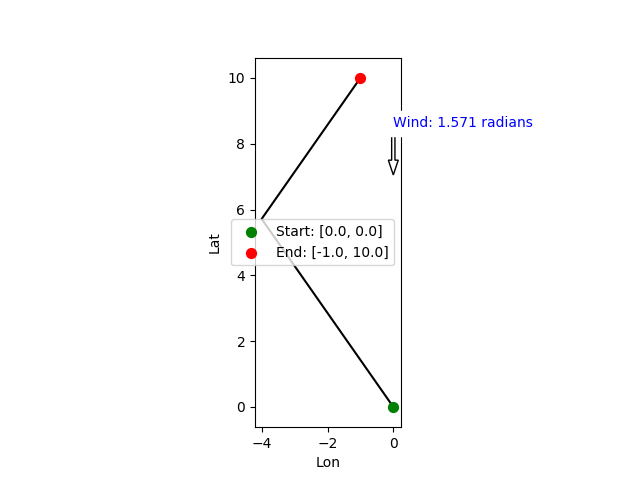
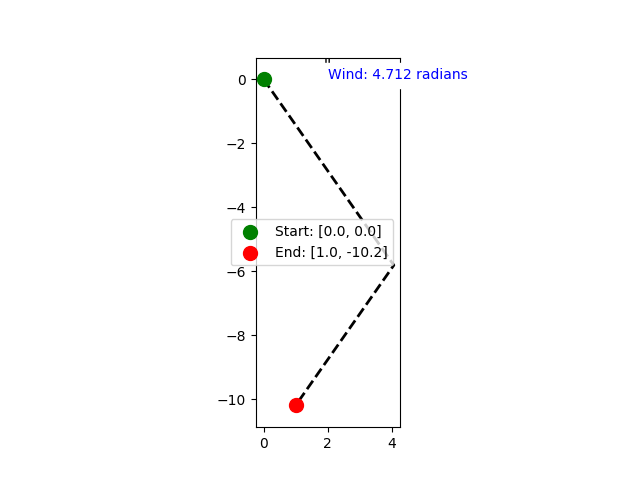
adding docs

diff --git a/lib/calc_route.dart b/lib/calc_route.dart
@@ -8,19 +8,18 @@ import 'package:sail_routing_dart/route_writer.dart';
 bool v_flag = false;
 
 void main(List<String> args) {
-
   var parser = new ArgParser();
   parser.addFlag("verbose", abbr: 'v', defaultsTo: false);
   var results = parser.parse(args);
   v_flag = results['verbose'];
 
   Cart_Point start = new Cart_Point(0.0, 0.0);
-  Cart_Point end = new Cart_Point(-1, 10.0);
-  double wind = pi / 2;
+  Cart_Point end = new Cart_Point(1.0, -10.2);
+  double wind = 3 * pi / 2;
   RouteModel route = new RouteModel(start: start, end: end, wind_radians: wind);
 
   calculateOptimal(route);
-  verbose_print(route);
+  print(route);
 
   RouteWriter rw = new RouteWriter();
   rw.writeToFileFromRouteModel(route: route);
@@ -37,17 +36,16 @@ void verbose_print(dynamic s) {
   }
 }
 
-Cart_Point find_intersection(
-    Cart_Point a_point, Cart_Point b_point, Cart_Point c_point, Cart_Point d_point) {
-    double a1 = b_point.y - a_point.y; 
-    double b1 = a_point.x - b_point.x; 
-    double c1 = a1*(a_point.x) + b1*(a_point.y); 
+Cart_Point find_intersection(Cart_Point a_point, Cart_Point b_point, Cart_Point c_point, Cart_Point d_point) {
+  double a1 = b_point.y - a_point.y;
+  double b1 = a_point.x - b_point.x;
+  double c1 = a1 * (a_point.x) + b1 * (a_point.y);
 
-    // Line CD represented as a2x + b2y = c2 
-    double a2 = d_point.y - c_point.y; 
-    double b2 = c_point.x - d_point.x; 
-    double c2 = a2*(c_point.x)+ b2*(c_point.y);
-    double determinant = a1*b2 - a2*b1; 
+  // Line CD represented as a2x + b2y = c2
+  double a2 = d_point.y - c_point.y;
+  double b2 = c_point.x - d_point.x;
+  double c2 = a2 * (c_point.x) + b2 * (c_point.y);
+  double determinant = a1 * b2 - a2 * b1;
 
   if (determinant == 0) {
     print("find_intersection() found parallel");
@@ -66,8 +64,8 @@ bool check_viable_tack(Cart_Point p1, Cart_Point p2, double wind_radians) {
   /*
     check_viable_tack just checks if a tack from p1 -> p2 is makable (not directly upwind).
     Args:
-        p1 (tuple): Cartesian coordinates of start
-        p2 (tuple): Cartesian coordinates of end
+        p1 (Cart_Point): Cartesian coordinates of start
+        p2 (Cart_Point): Cartesian coordinates of end
         wind_radians (double): wind direction 
     Returns:
         bool
@@ -76,17 +74,13 @@ bool check_viable_tack(Cart_Point p1, Cart_Point p2, double wind_radians) {
 
   double ngzone_upper_bound = (wind_radians + no_go_limit_radians);
   double ngzone_lower_bound = (wind_radians - no_go_limit_radians);
-  verbose_print("wind lower-upper: " +
-      radToDegStr(ngzone_lower_bound) +
-      " <-> " +
-      radToDegStr(ngzone_upper_bound));
+  verbose_print("wind lower-upper: " + radToDegStr(ngzone_lower_bound) + " <-> " + radToDegStr(ngzone_upper_bound));
   Point delta = p2.toPoint() - p1.toPoint();
-
   double tack_angle = atan2(delta.y, delta.x);
   verbose_print("pot viable tack: " + radToDegStr(tack_angle));
-
+  // arctan gives values fro [-pi, pi]
   if (tack_angle < 0) {
-    tack_angle += pi;
+    tack_angle += 2 * pi;
   }
 
   verbose_print("(tack_angle > ngzone_lower_bound) => " + (tack_angle > ngzone_lower_bound).toString());
@@ -110,36 +104,27 @@ double bestTackAngle(Cart_Point start, Cart_Point goal, double wind_radians, boo
 
   verbose_print("possible tacks: " + radToDegStr(angle_from_ideal_lower) + " <-> " + radToDegStr(angle_from_ideal_upper));
   bool lower_better = (angle_from_ideal_lower < angle_from_ideal_upper);
-  lower_better = (invert_flag)?  !lower_better: lower_better;
+  lower_better = (invert_flag) ? !lower_better : lower_better;
 
- 
   return (lower_better) ? ngzone_lower_bound : ngzone_upper_bound;
-
-  
-  
 }
 
 calculateOptimal(RouteModel route) {
   List intermediate_points = new List<Cart_Point>();
   bool viable = check_viable_tack(route.start, route.end, route.wind_radians);
   if (!viable) {
-    double best_tack_slope =
-        bestTackAngle(route.start, route.end, route.wind_radians, false);
+    double best_tack_slope = bestTackAngle(route.start, route.end, route.wind_radians, false);
 
     verbose_print("__BEST TACK " + radToDegStr(best_tack_slope));
     // TODO this can be done better, note th +pi
-    double inverse_tack_slope =
-        bestTackAngle(route.end, route.start, route.wind_radians, true) + pi;
+    double inverse_tack_slope = bestTackAngle(route.end, route.start, route.wind_radians, true) + pi;
     verbose_print("__INVERSE TACK " + radToDegStr(inverse_tack_slope));
 
-    Cart_Point start2 = Cart_Point.fromPoint(route.start.toPoint() +
-        Point(cos(best_tack_slope), sin(best_tack_slope)));
-    Cart_Point end2 = Cart_Point.fromPoint(route.end.toPoint() +
-        Point(cos(inverse_tack_slope), sin(inverse_tack_slope)));
+    Cart_Point start2 = Cart_Point.fromPoint(route.start.toPoint() + Point(cos(best_tack_slope), sin(best_tack_slope)));
+    Cart_Point end2 = Cart_Point.fromPoint(route.end.toPoint() + Point(cos(inverse_tack_slope), sin(inverse_tack_slope)));
 
     verbose_print(end2);
-    Cart_Point intersect =
-        find_intersection(route.start, start2, route.end, end2);
+    Cart_Point intersect = find_intersection(route.start, start2, route.end, end2);
 
     intermediate_points.add(start2);
     intermediate_points.add(intersect);
@@ -149,5 +134,4 @@ calculateOptimal(RouteModel route) {
   } else {
     route.intermediate_points = [];
   }
- 
 }

diff --git a/lib/pretty_plotter.py b/lib/pretty_plotter.py
@@ -44,18 +44,19 @@ ax.arrow(wind_origin[0], wind_origin[1], cos(wind_radians), sin(
 ax.annotate(wind_label, xy=wind_origin, color='b', backgroundcolor='w')
 
 # Draw line connecting all points
-plt.plot(x_row_major, y_row_major, color='k')
+plt.plot(x_row_major, y_row_major, color='k',
+         linestyle='dashed', linewidth=2, markersize=12)
 
 # Draw start and end points in green and red respsectively
-plt.scatter(final_map["start"][0], final_map["start"][1], s=50,
+plt.scatter(final_map["start"][0], final_map["start"][1], s=100,
             zorder=100, c='g', label="Start: " + str(final_map["start"]))
-plt.scatter(final_map["end"][0], final_map["end"][1], s=50,
+plt.scatter(final_map["end"][0], final_map["end"][1], s=100,
             zorder=100, c='r', label="End: " + str(final_map["end"]))
 
 # Draw legend
 plt.legend(loc='best')
-plt.xlabel('Lon')
-plt.ylabel('Lat')
+# plt.xlabel('Longitude: Seconds', fontsize=15)
+# plt.ylabel('Latitude: Seconds', fontsize=15)
 # make it a square
 ax.set_aspect('equal', 'box')
 # Save to a file, I hated having 20+ python windows open

diff --git a/README.md b/README.md
@@ -1,3 +1,31 @@
+## Running From Flutter ##
+First import the required files with:
+```dart
+import 'package:sail_routing_dart/route.dart';
+import 'package:sail_routing_dart/cart_point.dart';
+```
+This will give you the data types you need.\\
+#### Calculating Routes ####
+To calculate a route, first we need to create a route. The constructor should giv you hints but heres an example:
+```dart
+  Cart_Point start = new Cart_Point(0.0, 0.0);
+  Cart_Point end = new Cart_Point(1.0, -10.2);
+  double wind = 3 * pi / 2;
+  RouteModel route = new RouteModel(start: start, end: end, wind_radians: wind);
+```
+The constructor will take care of the rest. To see the route it calculated, add `print(route)` which gives a full print-out of the route including any intermediate points the route calculation added if any. Will look something like this:
+```
+[ROUTE]
+        Start: x: 0.0   y: 0.0
+        End: x: 1.0     y: -10.2
+        wind_radians: 4.71238898038469
+        Intermediate_Points: (
+                x: 0.5735762412306388   y: -0.8191521809137372, 
+                x: 4.071056634450088    y: -5.814074365385329, 
+                x: 1.573576241230639    y: -9.380847819086263)
+[/ROUTE]
+```
+
 
 ## Single Tack Routing ##
 #### String whoToBlame() => 'Daniel'; ####
